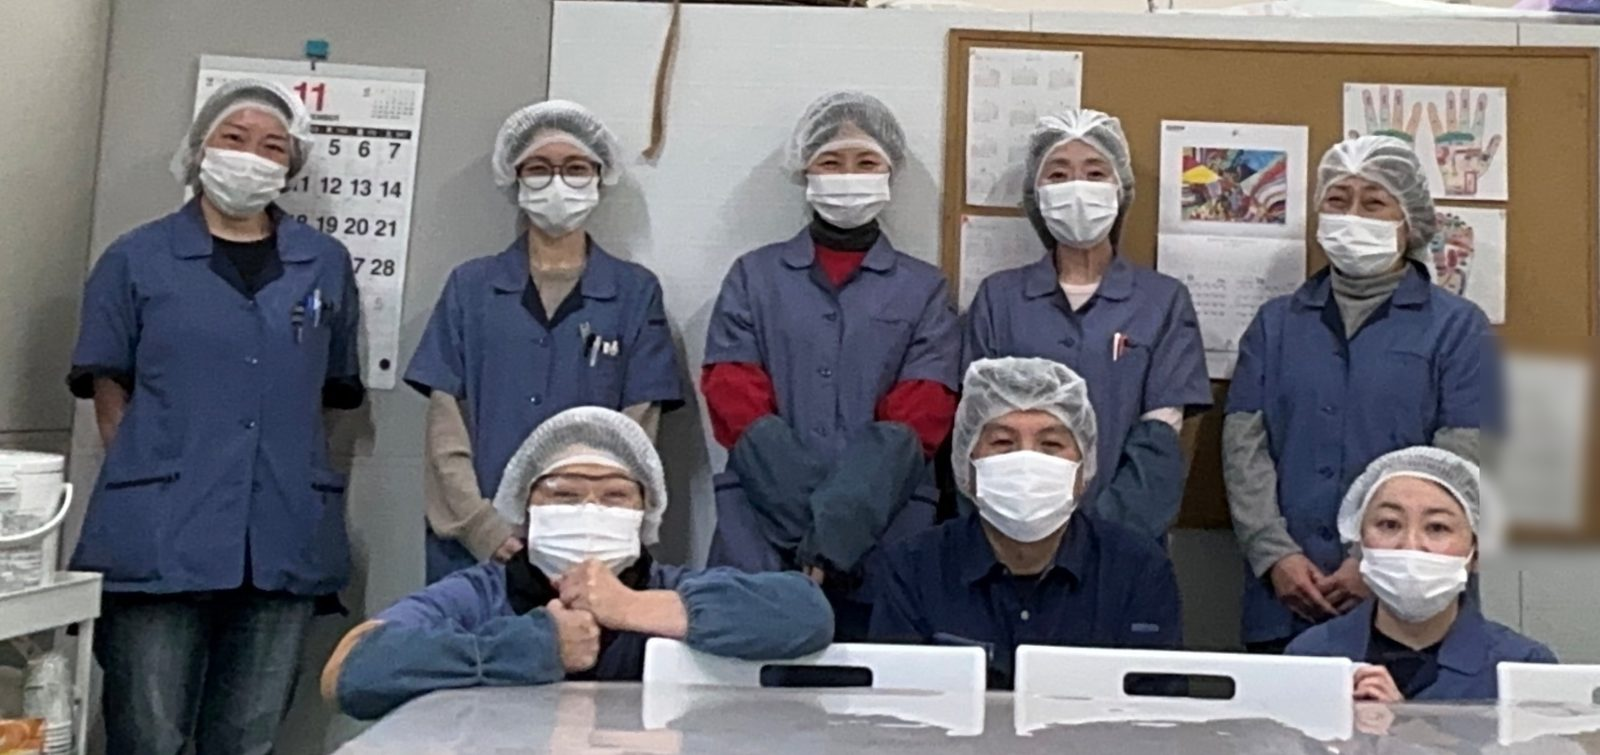
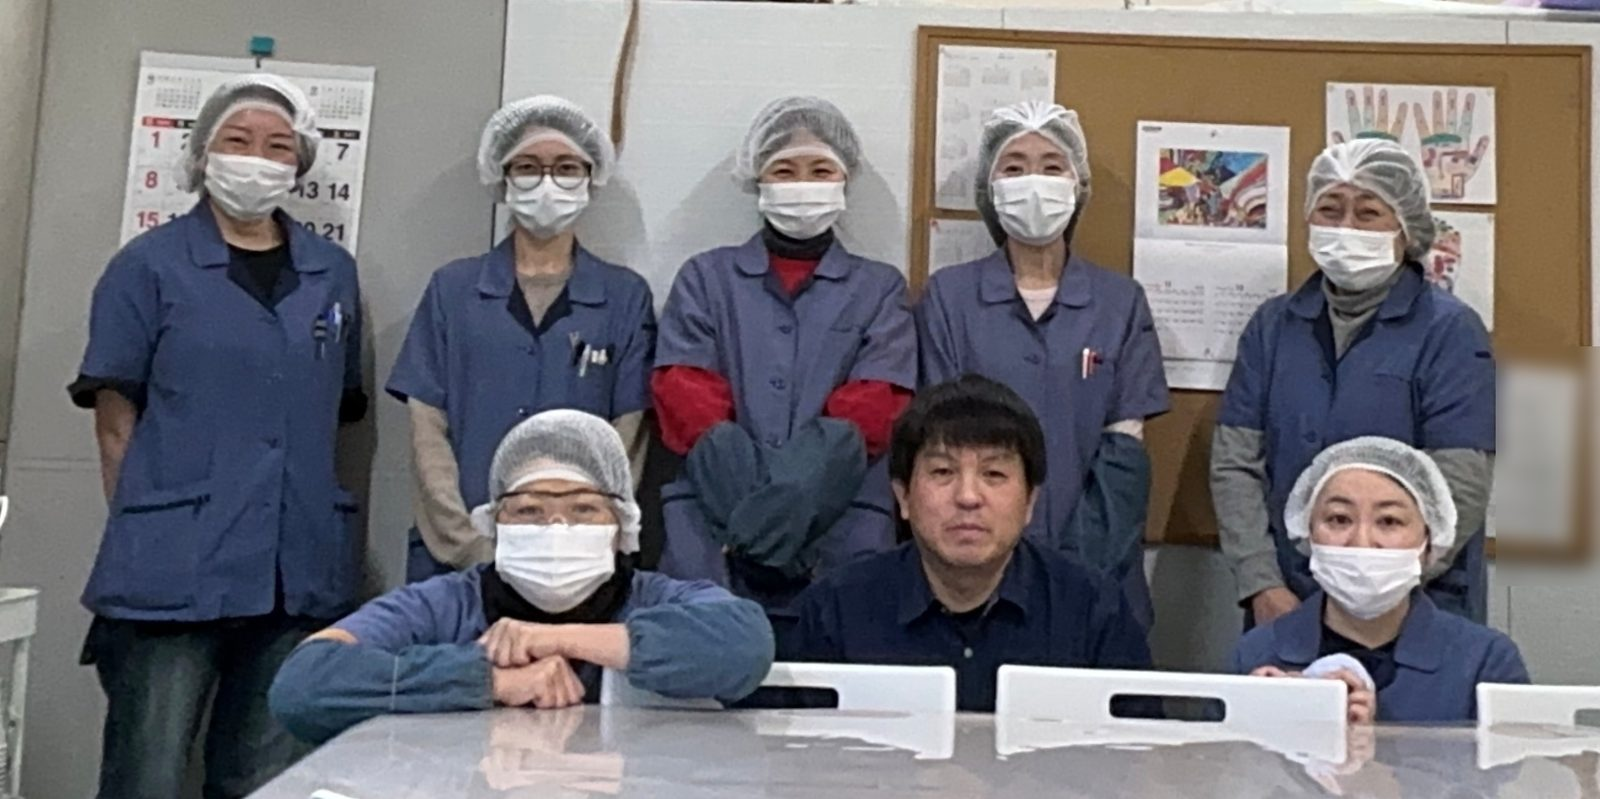
サイト更新 2026-11-28 16:57

diff --git a/eikou-denshi/recruit1.html b/eikou-denshi/recruit1.html
@@ -315,7 +315,8 @@ a{color:inherit;}
     <div class="mag"><p class="mag-num mono">×40</p><p class="mag-cap">一緒に働く人</p></div>
     <div>
       <h2>この8人で働いています。</h2>
-      <div class="band" style="margin:0 0 2.5rem;"><img src="images/team.jpg" alt="エイコウ電子のスタッフ全員" style="aspect-ratio:16/8;object-position:center 30%;"></div>
+      <div class="band" style="margin:0;"><img src="images/team.jpg" alt="代表の関口とパートスタッフ7名" style="aspect-ratio:16/8;object-position:center 30%;"></div>
+      <p class="note" style="margin:.5rem 0 2.5rem;">前列中央が代表の関口。パートスタッフ7名と一緒に働いています。</p>
       <h3 class="sub" style="margin-top:0;">先輩からのメッセージ</h3>
       <p class="note">※ここはサンプルです。実際に働く先輩からのメッセージに差し替えます（お顔を出さない形にしています）</p>
       <!-- ▼先輩からのメッセージ：以下はサンプル。実際の先輩の氏名（イニシャル可）・メッセージに差し替えてください -->

diff --git a/eikou-denshi/recruit3.html b/eikou-denshi/recruit3.html
@@ -252,7 +252,8 @@ body{font-family:"Noto Sans JP",sans-serif;color:var(--ink);background:var(--bg)
 <section class="sec" id="voices">
   <div class="wrap">
     <h2 class="serif">この8人で、働いています。</h2>
-    <img src="images/team.jpg" alt="エイコウ電子のスタッフ全員" style="width:100%;margin-bottom:3rem;">
+    <img src="images/team.jpg" alt="代表の関口とパートスタッフ7名" style="width:100%;margin-bottom:.5rem;">
+    <p style="font-size:.8rem;color:var(--mute);margin-bottom:3rem;">前列中央が代表の関口。パートスタッフ7名と一緒に働いています。</p>
     <h3 class="serif" style="font-size:1.3rem;margin-bottom:1.6rem;">先輩からのメッセージ</h3>
     <p class="note">※ここはサンプルです。実際に働く先輩からのメッセージに差し替えます（お顔を出さない形にしています）</p>
     <!-- ▼先輩からのメッセージ：以下はサンプル。実際の先輩の氏名（イニシャル可）・メッセージに差し替えてください -->

diff --git a/eikou-denshi/recruit2.html b/eikou-denshi/recruit2.html
@@ -311,7 +311,8 @@ body{font-family:"Zen Maru Gothic",sans-serif;color:var(--ink);background:var(--
   <div class="wrap">
     <span class="printed">先輩からのメッセージ</span>
     <h2>ひとことずつ、もらいました。</h2>
-    <div class="wide"><img src="images/team.jpg" alt="エイコウ電子のスタッフ全員" style="object-position:center 30%;"></div>
+    <div class="wide"><img src="images/team.jpg" alt="代表の関口とパートスタッフ7名" style="object-position:center 30%;"></div>
+    <p class="note" style="margin-top:-1.5rem;">前列中央が代表の関口。パートスタッフ7名と一緒に働いています。</p>
     <p class="note">※ここはサンプルです。実際に働く先輩からのメッセージに差し替えます（お顔を出さない形にしています）</p>
     <!-- ▼先輩からのメッセージ：以下はサンプル。実際の先輩の氏名（イニシャル可）・メッセージに差し替えてください -->
     <div class="voices">
